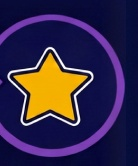
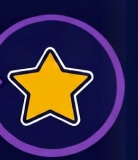
fix: updated for askwe

diff --git a/crop/crop_start.py b/crop/crop_start.py
@@ -20,7 +20,7 @@ h, w, _ = img.shape
 nb_cols = 5
 right_m = 5
 top_m = 0
-bottom_m = -10  # -6
+bottom_m = -16  # -10 # -6
 left_m = 10
 tile_w = w // nb_cols
 
